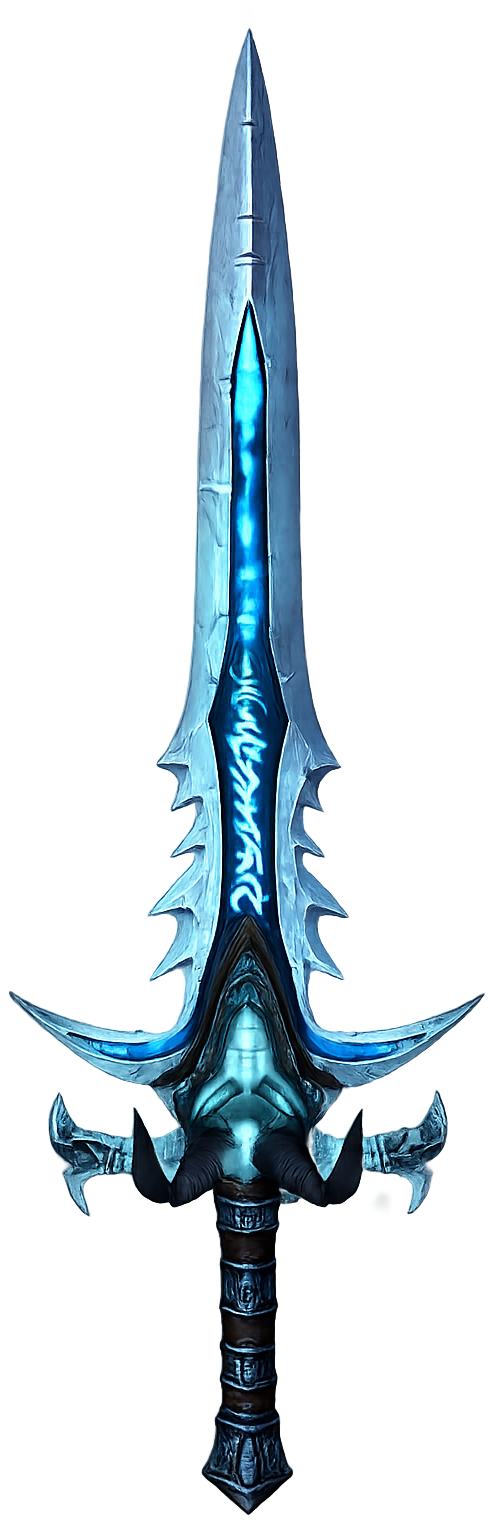
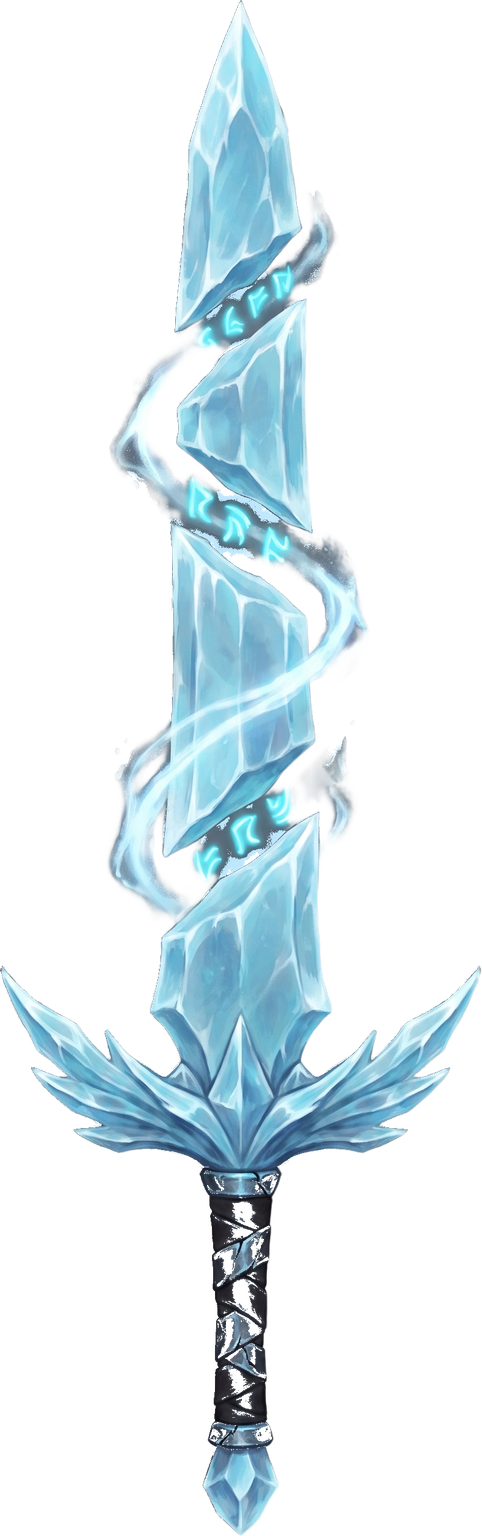
changed all of frostkeens assets and sword

Changed region(s): [[0.0, 0.0, 0.9959, 1.0]]

diff --git a/game.js b/game.js
@@ -11,11 +11,15 @@ const fkImg=new Image();fkImg.src='assets/models/frostkeen.png'; /* the original
 const fkImgMace =new Image();fkImgMace.src ='assets/models/frostkeen_mace.png';
 const fkImgStaff=new Image();fkImgStaff.src='assets/models/frostkeen_staff.png';
 const fkImgBow  =new Image();fkImgBow.src  ='assets/models/frostkeen_bow.png';
+/* std: the plain weapon this legendary stands in for - sizes copied from that weapon's own draw
+   below, plus the grip it hangs from. Where std is set, h scales against the ordinary weapon
+   instead of the Frostkeen base, so the legendary lands in the same spot but reads bigger. */
 const FK_ART={
- warrior:{img:fkImg,      h:1},     /* Christian - heavy blade */
- priest: {img:fkImgMace,  h:0.94},  /* Jew - healing mace, shorter haft */
- mage:   {img:fkImgStaff, h:1.18},  /* Hindu - staff, stands taller than a blade */
- hunter: {img:fkImgBow,   h:1.05},  /* Muslim - bow */
+ warrior:{img:fkImg,      h:1.38,std:{pw:38,pl:27,grip:H=>4-H}},        /* Christian - heavy blade, grip in the hand */
+ priest: {img:fkImgMace,  h:1.38,std:{pw:38,pl:27,grip:H=>4-H}},        /* Jew - healing mace, butt in the hand */
+ mage:   {img:fkImgStaff, h:1.38,std:{pw:42,pl:30,grip:H=>5-H}},       /* Hindu - staff, butt in the hand */
+ hunter: {img:fkImgBow,   h:1.38,std:{pw:44,pl:31,grip:H=>-4-H/2},mirror:true}, /* Muslim - bow, gripped
+   mid-limb; its art faces the same way as assets/weapons/bow.png so it mirrors on the same rule */
 };
 /* Any class art that has not loaded - or does not exist yet - quietly falls back to the
    blade, so a missing file can never leave the hero empty-handed. */
@@ -6562,9 +6566,15 @@ function drawChampionSprite(g,raceId,clsId,fx,by,swing,fm,weaponId,female,painte
   g.shadowColor='#6fd0ff';g.shadowBlur=10+Math.sin(tt*3)*3;
   const art=fkArtFor(clsId); /* blade · mace · staff · bow, by what this class can wield */
   if(art.img.complete&&art.img.naturalWidth){
-   /* painted Frostkeen (assets/models/frostkeen*.png) - the pulsing canvas glow hugs the cutout */
-   const H=(pw?50:40)*art.h,W=H*art.img.naturalWidth/art.img.naturalHeight;
-   g.drawImage(mip(art.img,W),-W/2,(pw?-2:6)-H,W,H); /* grip in the painted hero's hand */
+   /* painted Frostkeen (assets/models/frostkeen*.png) - the pulsing canvas glow hugs the cutout.
+      Arts with a std borrow that plain weapon's size and grip so they land in the same place;
+      the rest hang from the grip at the bottom of their art. */
+   const st=art.std;
+   const H=(st?(pw?st.pw:st.pl):(pw?50:40))*art.h,W=H*art.img.naturalWidth/art.img.naturalHeight;
+   g.save();
+   if(art.mirror&&sgn<0)g.scale(-1,1); /* mirror so the string always faces the archer */
+   g.drawImage(mip(art.img,W),-W/2,st?st.grip(H):(pw?-2:6)-H,W,H); /* grip in the painted hero's hand */
+   g.restore();
    g.shadowBlur=0;
   }else{ /* fallback while the image loads: icy runeblade */
   g.fillStyle='#bfe9ff';
